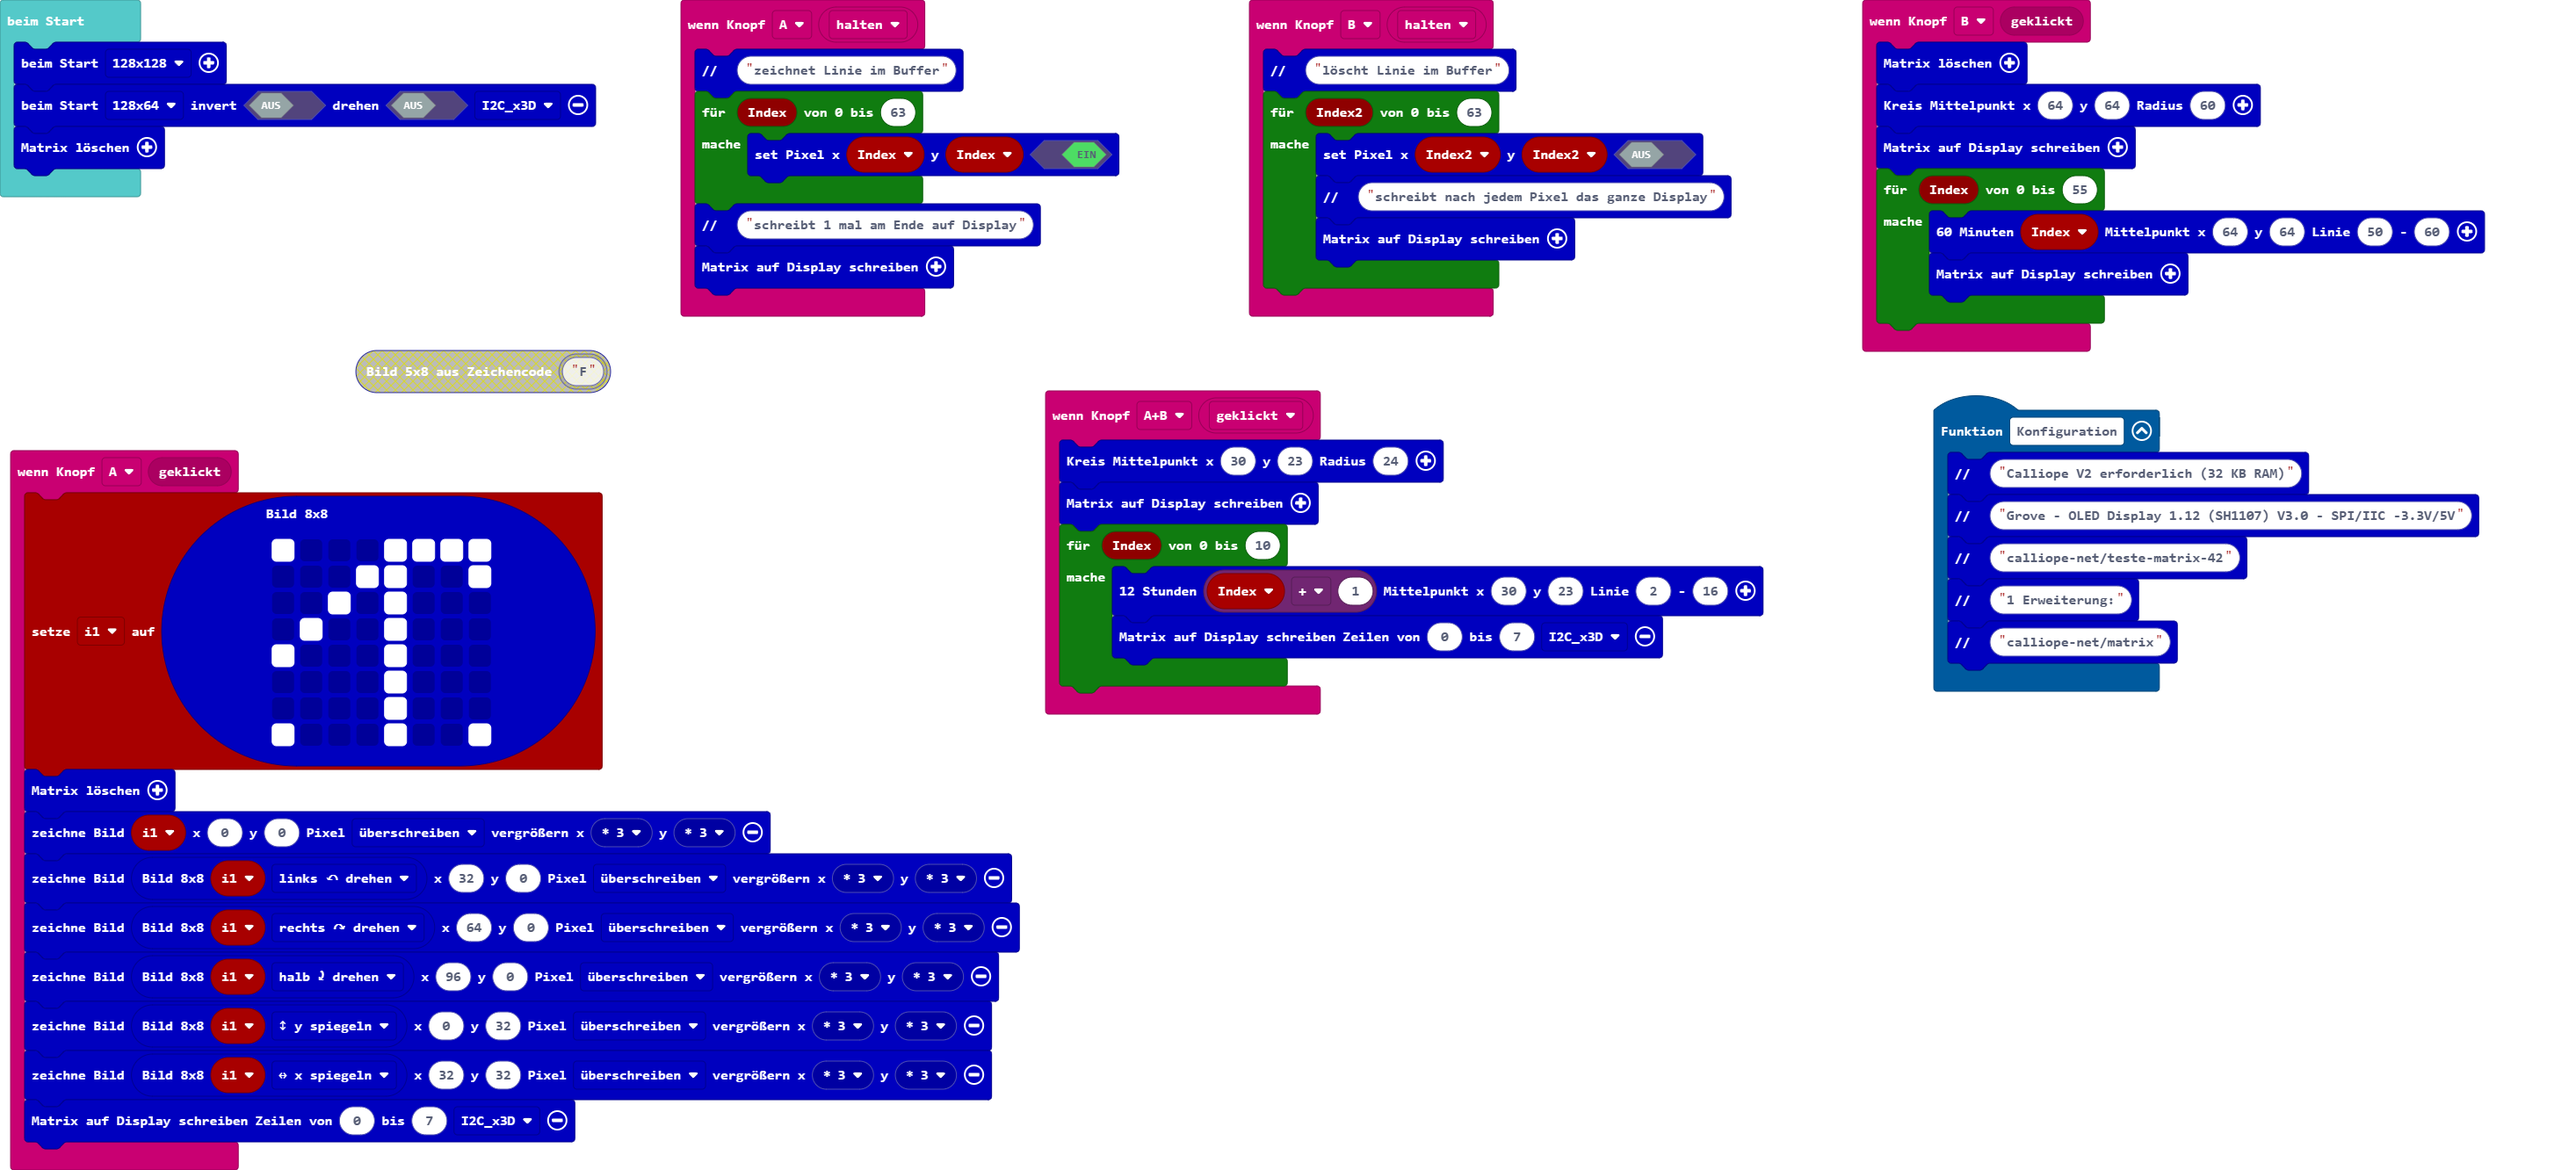
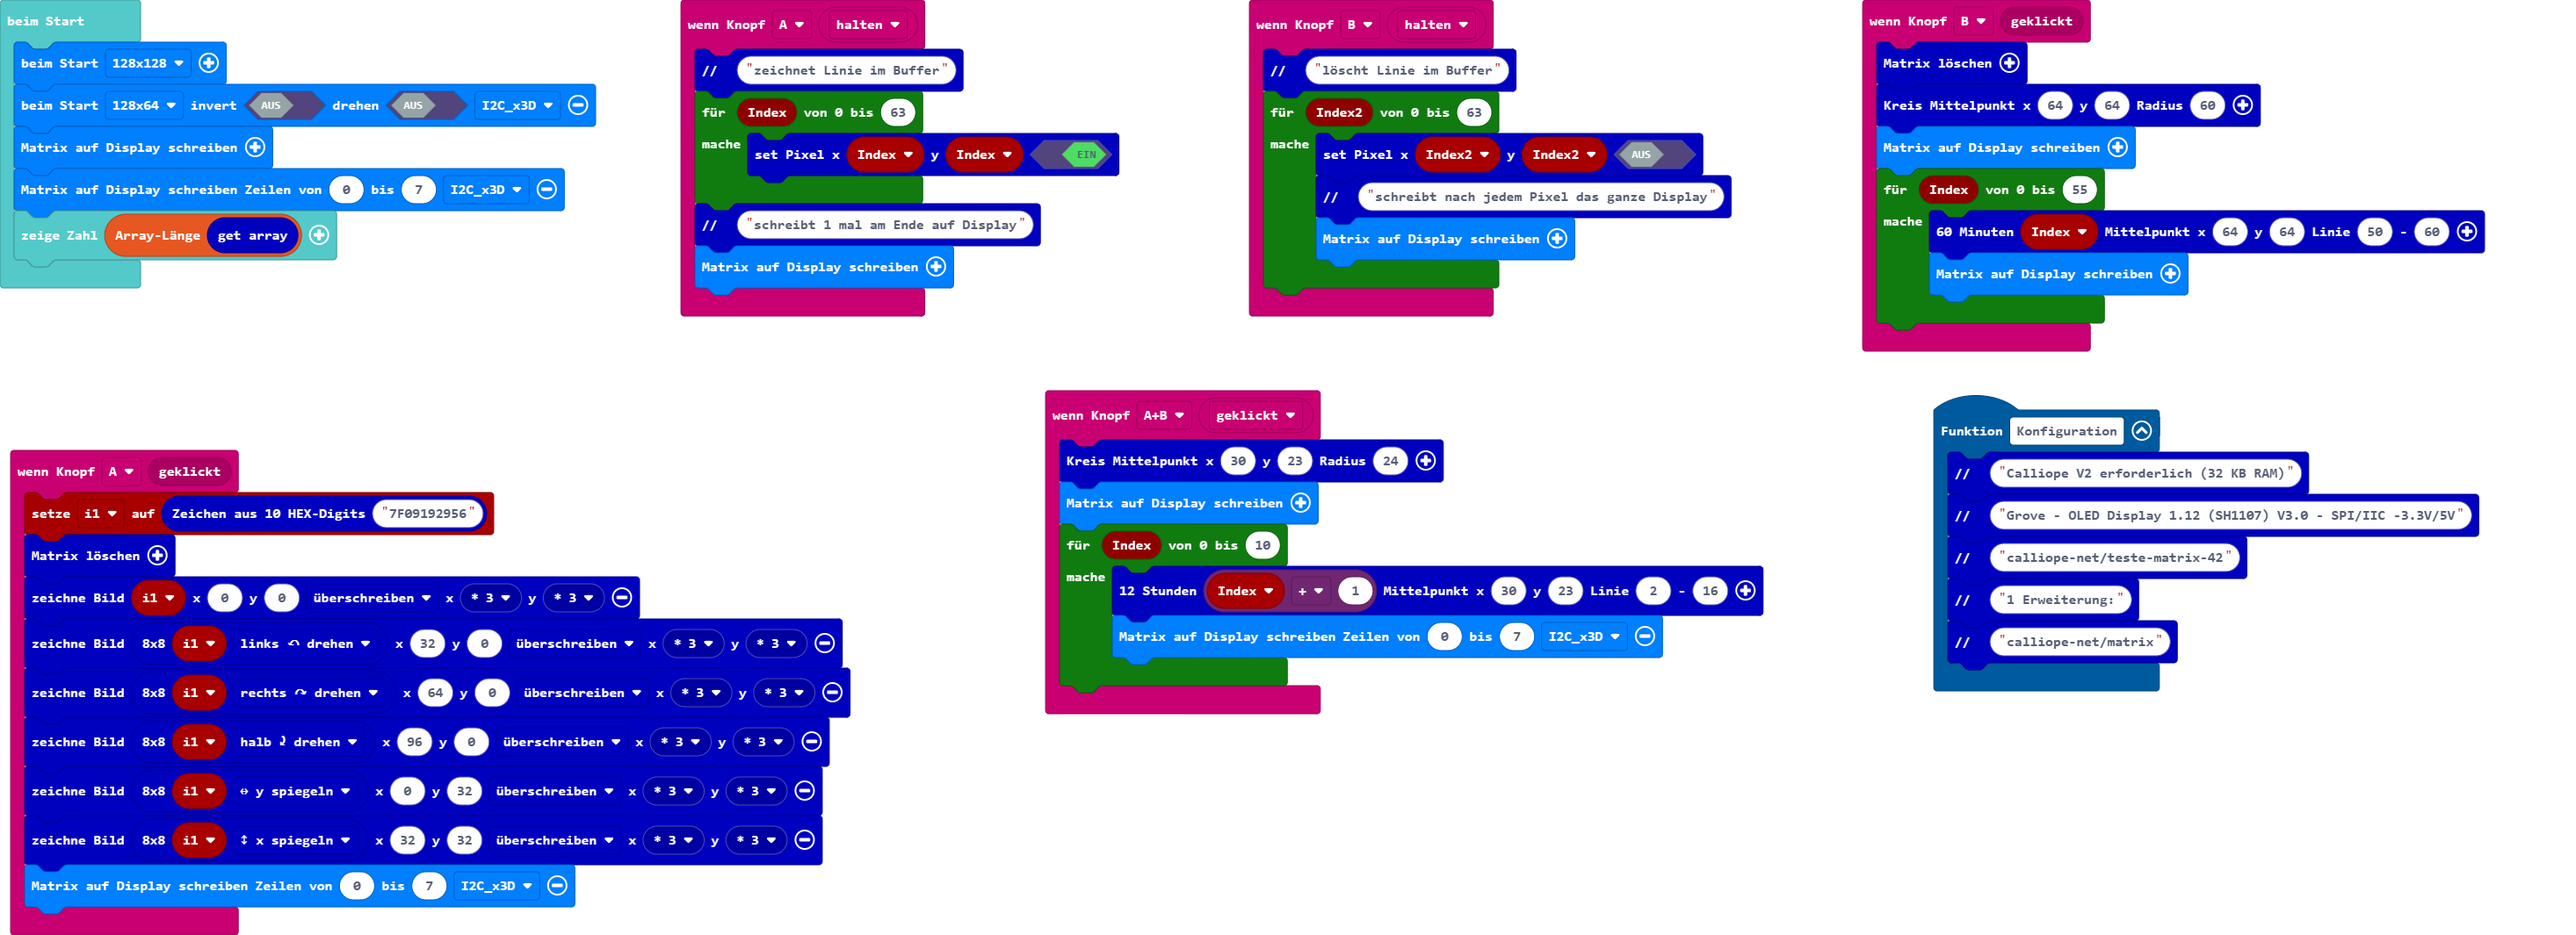
Aktualisiere pxt.json, main.blocks, main.ts

diff --git a/main.ts b/main.ts
@@ -7,16 +7,7 @@ input.onButtonEvent(Button.AB, ButtonEvent.Click, function () {
     }
 })
 input.onButtonEvent(Button.A, input.buttonEventClick(), function () {
-    i1 = matrix.matrix8x8(`
-        # . . . # # # #
-        . . . # # . . #
-        . . # . # . . .
-        . # . . # . . .
-        # . . . # . . .
-        . . . . # . . .
-        . . . . # . . .
-        # . . . # . . #
-        `)
+    i1 = matrix.writeHexImage("7F09192956")
     matrix.clearMatrix()
     matrix.writeImage(i1, 0, 0, matrix.eTransparent.u, matrix.oled_eFaktor(matrix.eFaktor.f3), matrix.oled_eFaktor(matrix.eFaktor.f3))
     matrix.writeImage(matrix.imageDrehen(i1, matrix.eZeichenDrehen.links), 32, 0, matrix.eTransparent.u, matrix.oled_eFaktor(matrix.eFaktor.f3), matrix.oled_eFaktor(matrix.eFaktor.f3))
@@ -31,7 +22,7 @@ input.onButtonEvent(Button.B, input.buttonEventClick(), function () {
     matrix.rasterCircle(64, 64, 60)
     matrix.writeDisplay()
     for (let Index = 0; Index <= 55; Index++) {
-        matrix.minute_line(Index, 64, 64, 50, 60)
+        matrix.minute_mark(Index, 64, 64, 50, 60)
         matrix.writeDisplay()
     }
 })
@@ -61,4 +52,6 @@ function Konfiguration () {
 let i1: Image = null
 matrix.init(matrix.ePages.y128)
 matrix.init(matrix.ePages.y64, false, false, matrix.eI2C.I2C_x3D)
-matrix.clearMatrix()
+matrix.writeDisplay()
+matrix.writeDisplay(0, 7, matrix.eI2C.I2C_x3D)
+basic.showNumber(matrix.getArray().length)
